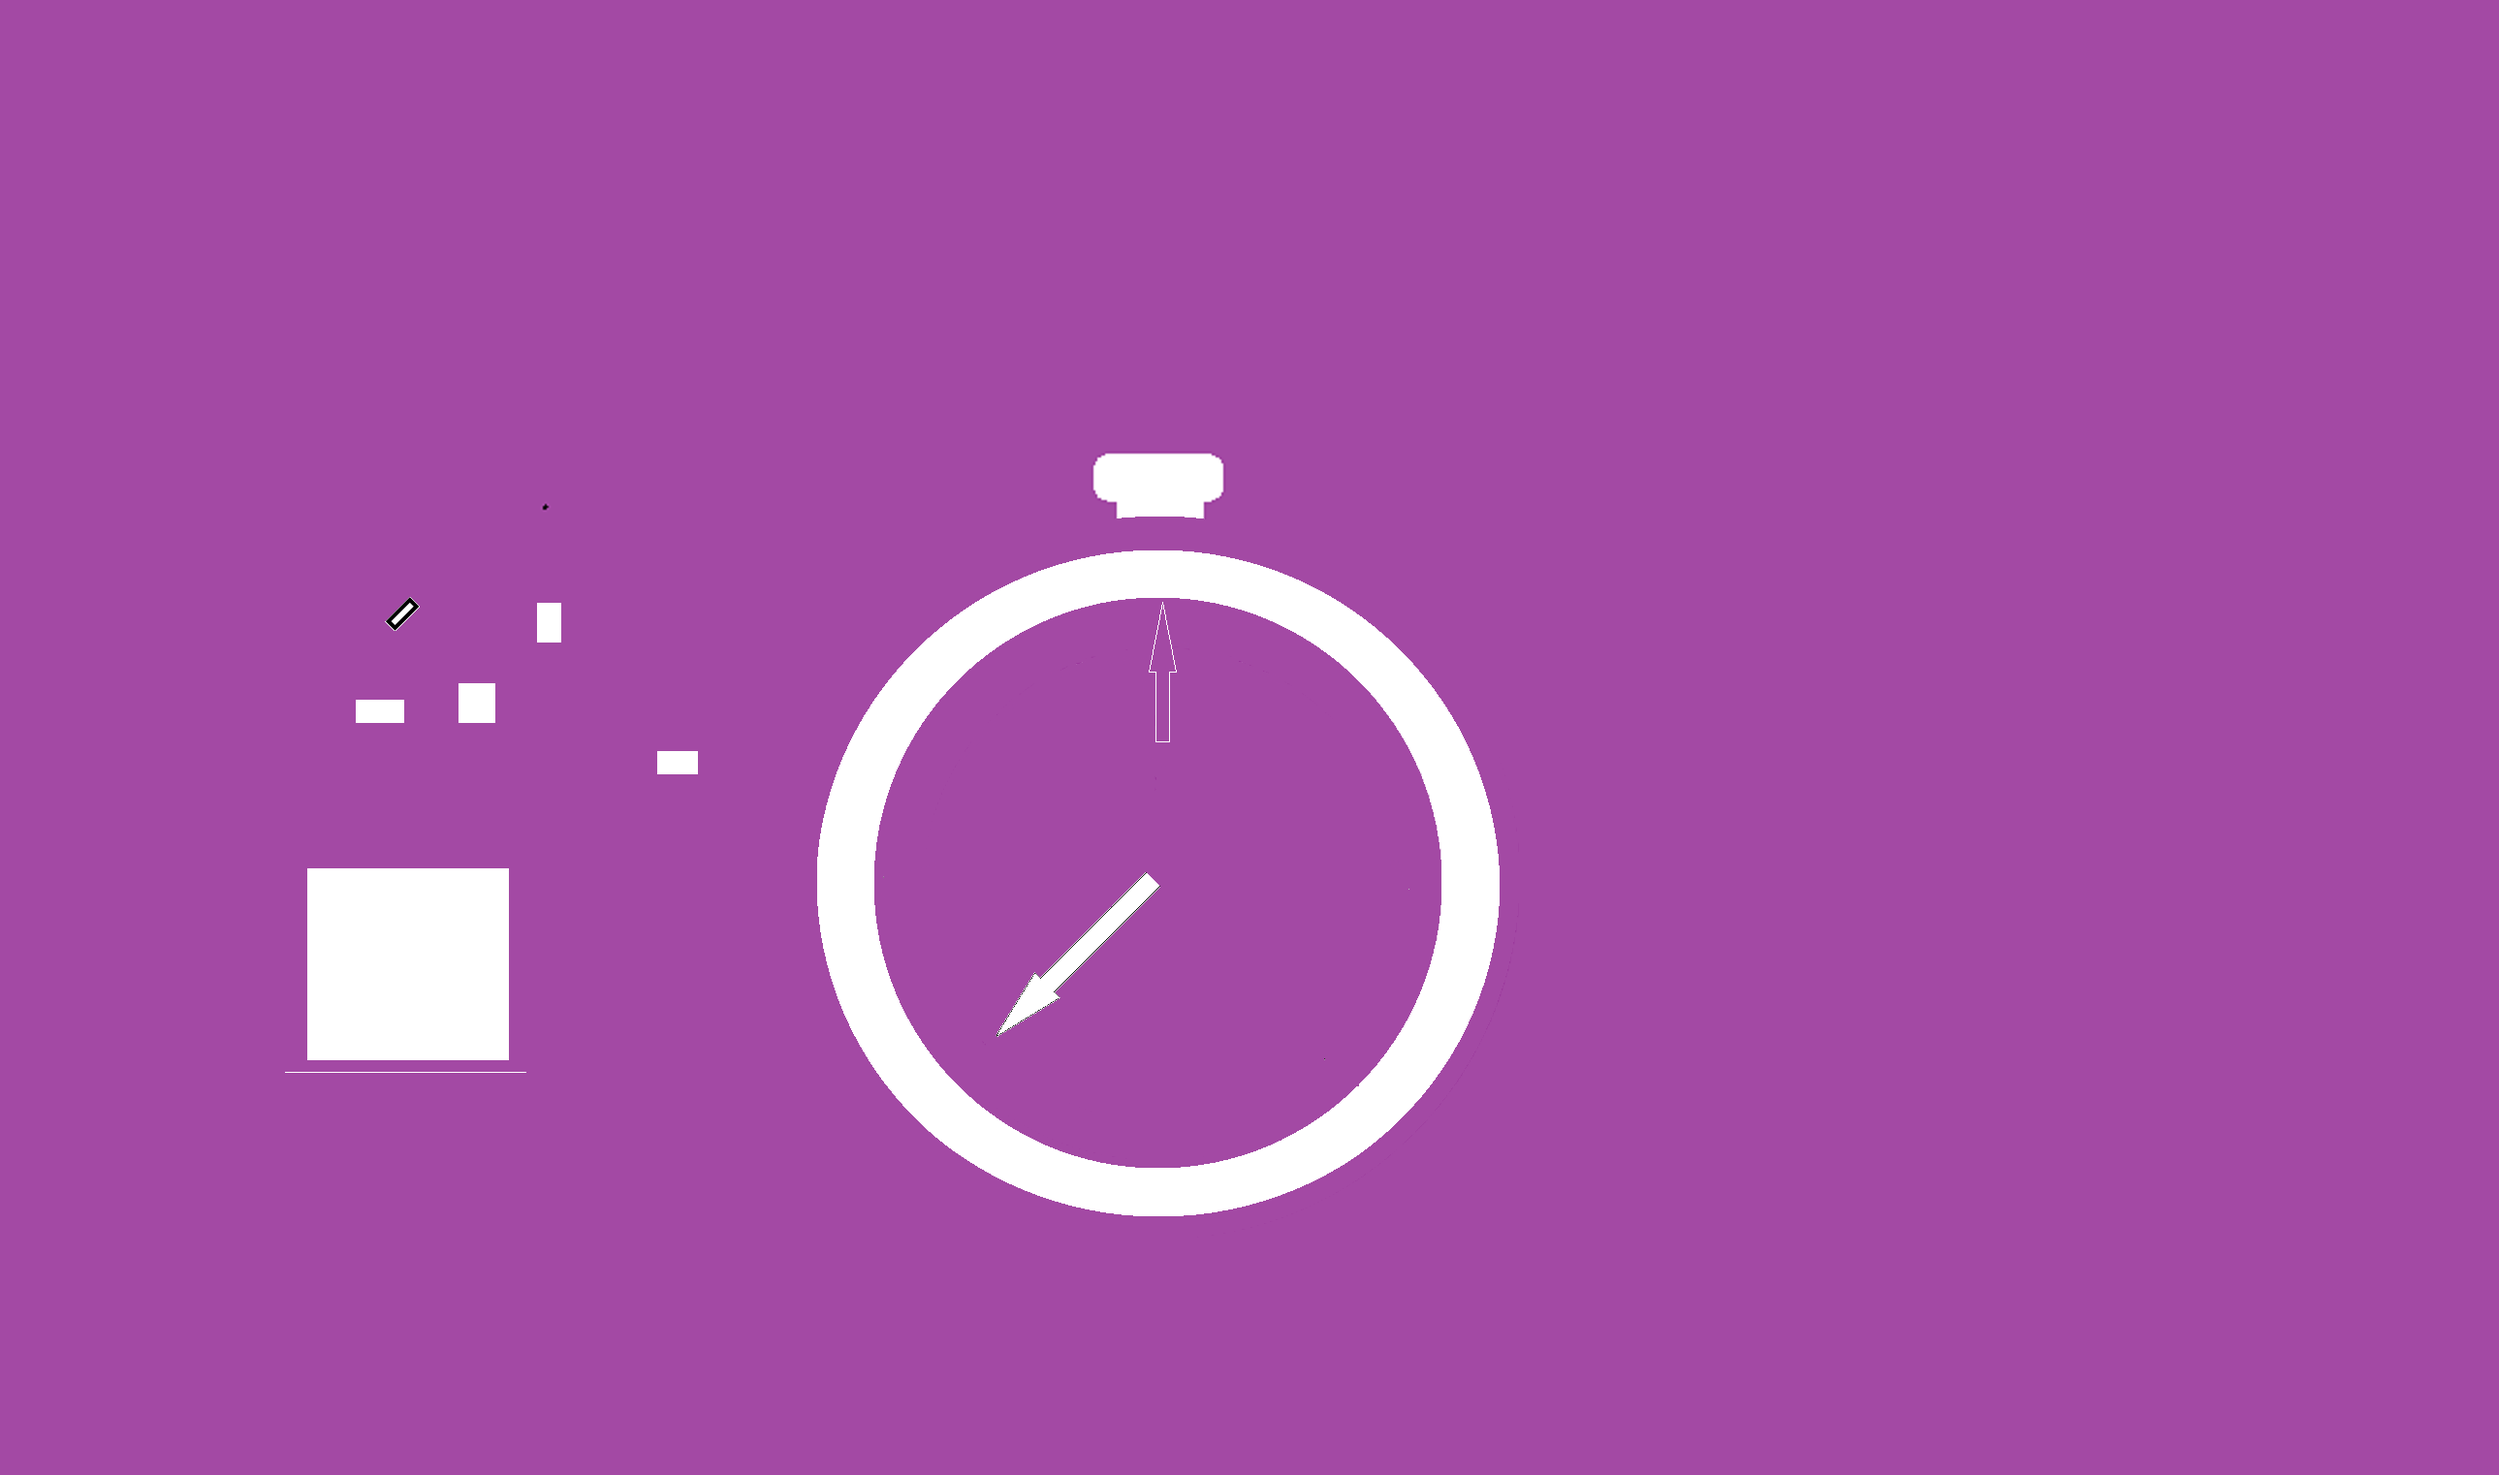
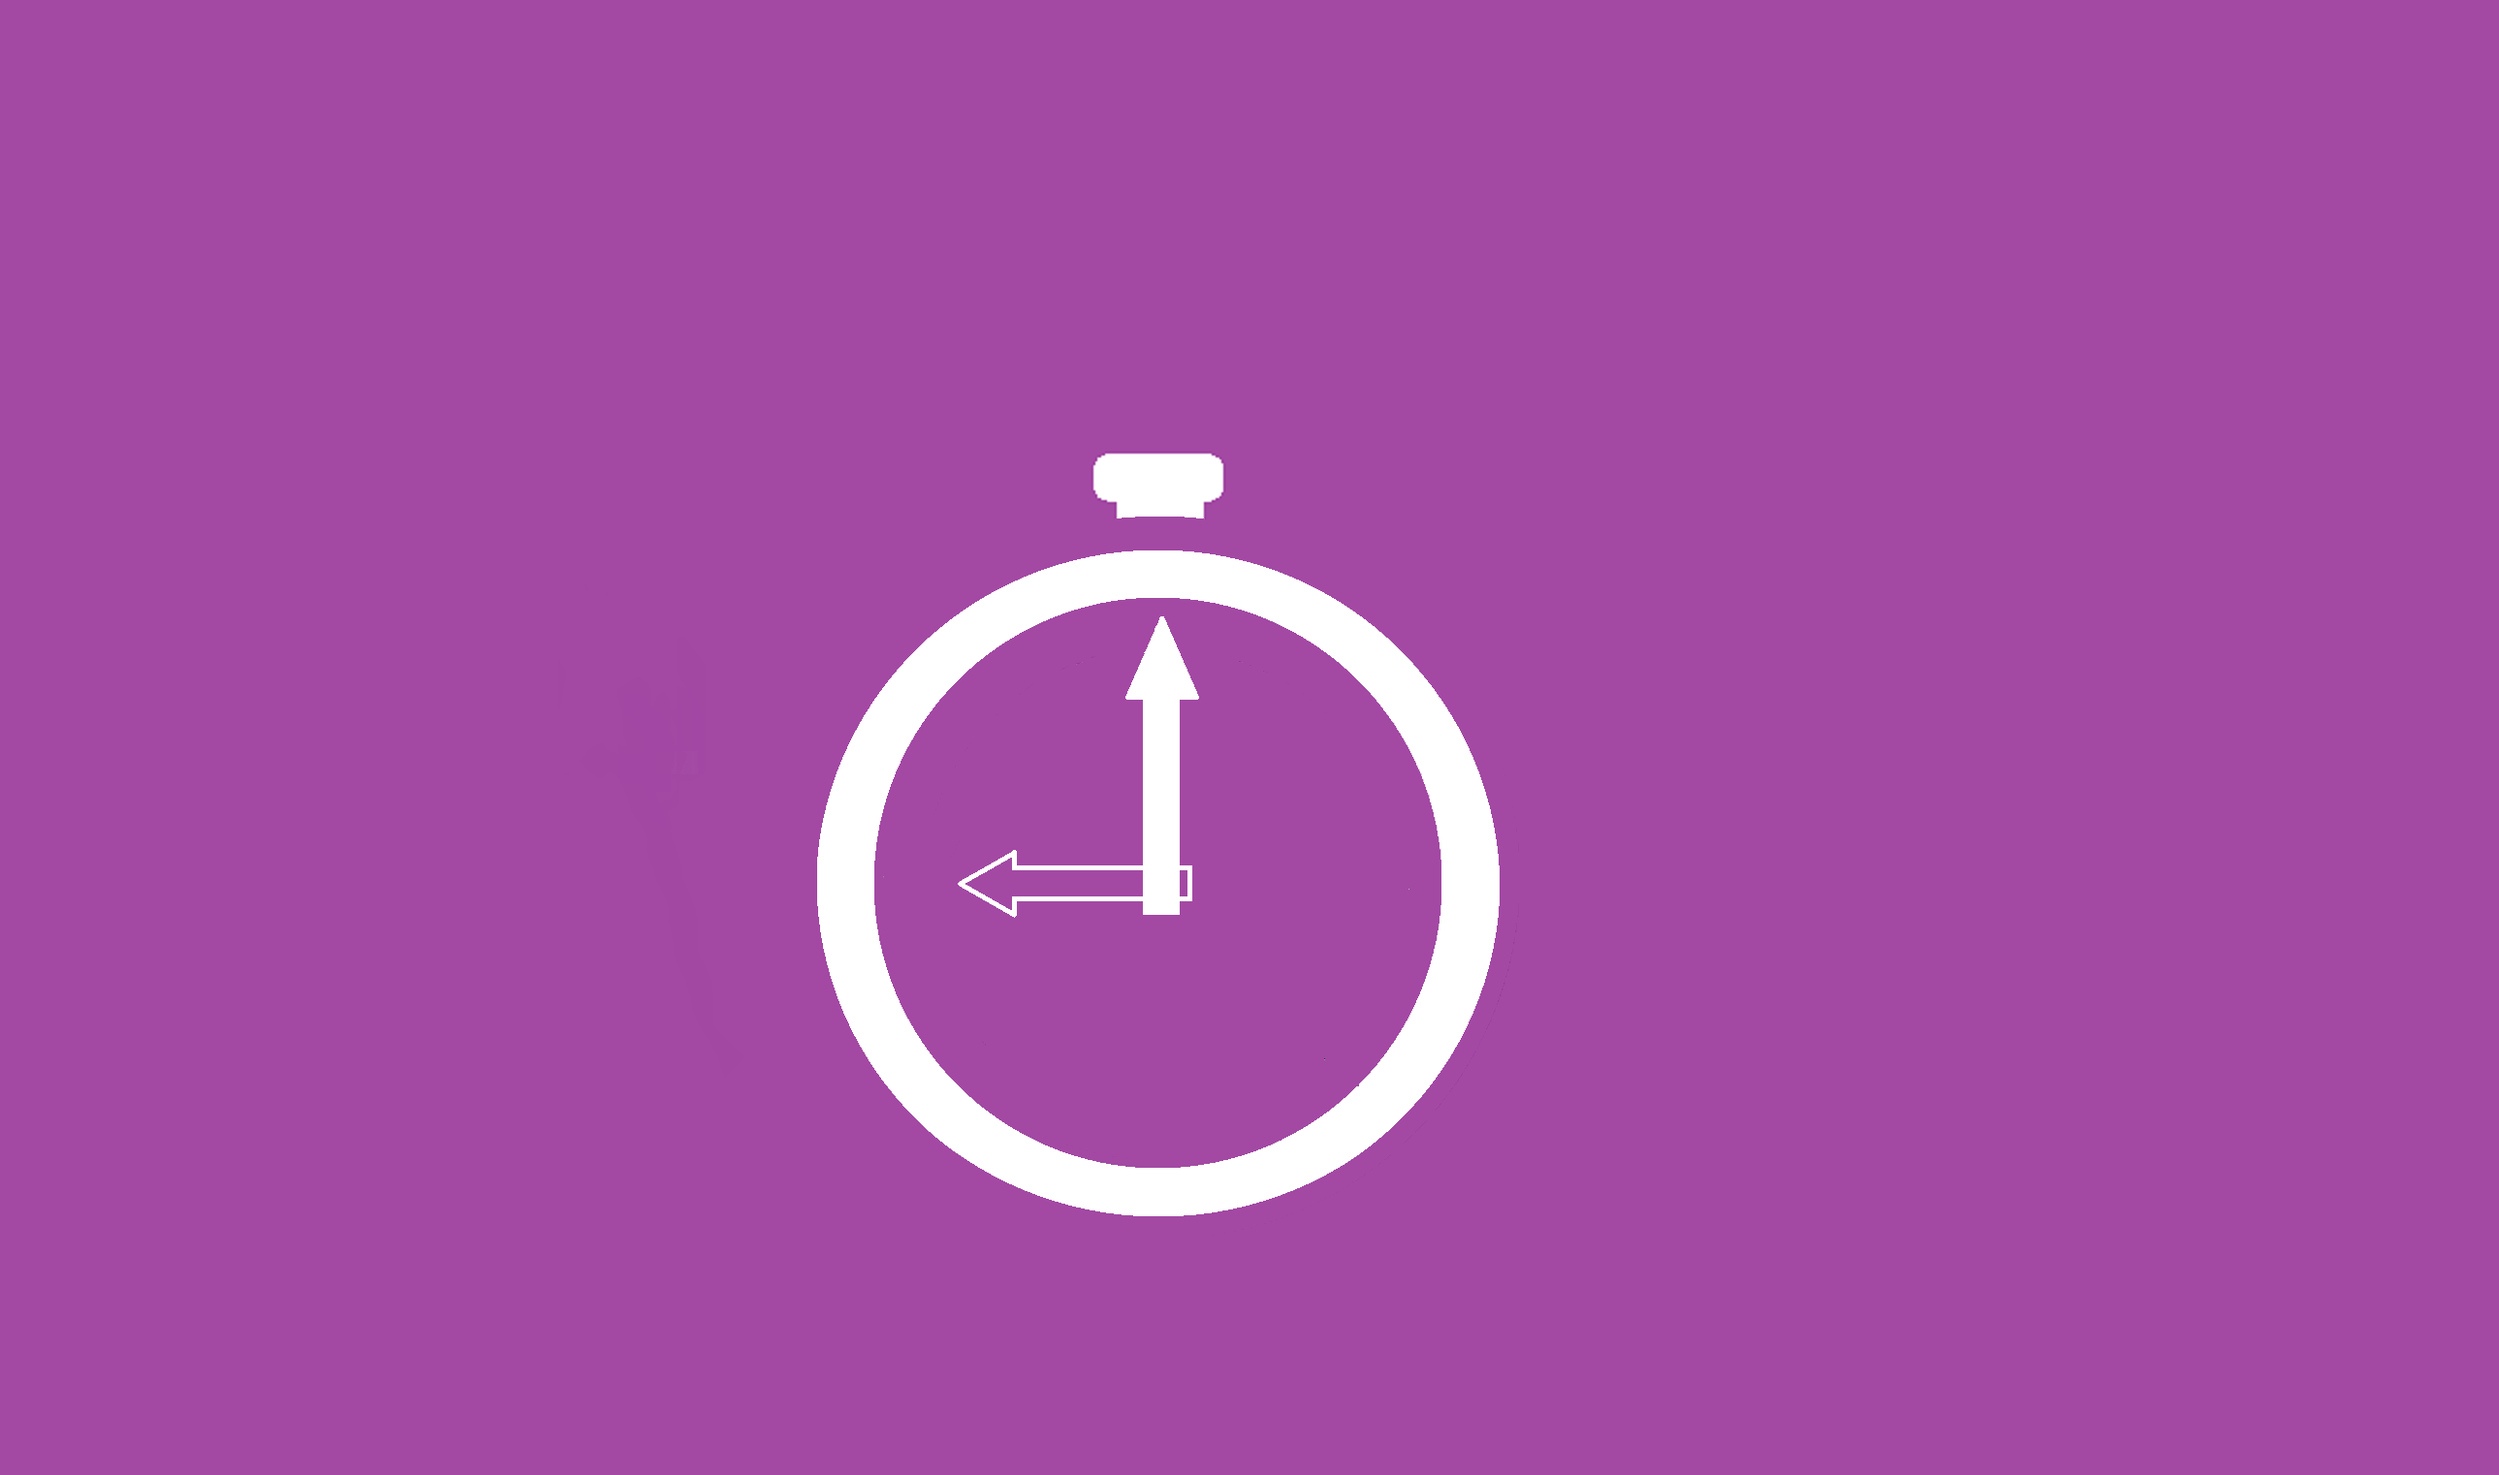
首頁內文圖片更換

diff --git a/index.html b/index.html
@@ -69,13 +69,13 @@
 
 
 <div id="picture">
-	<img id="coding" src="img/codingNo.jpg">
+	<img id="coding" src="img/time.png">
 	<h2><p>兩天一夜  連續 coding 28 小時 </p></h2>
 </div>
 <hr align="center">
 
 <div id="picture">
-	<img id="shine" src="img/shineNo.jpg">
+	<img id="shine" src="img/think.png">
 	<h2><p>腦力激盪   盡情發揮自己的創造力</p></h2>
 </div>
 
